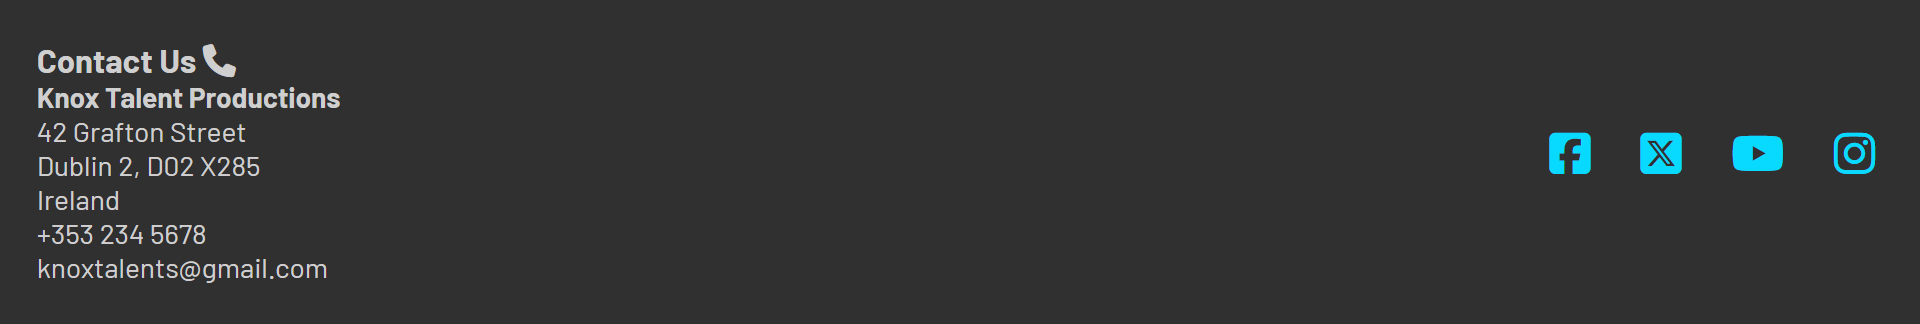
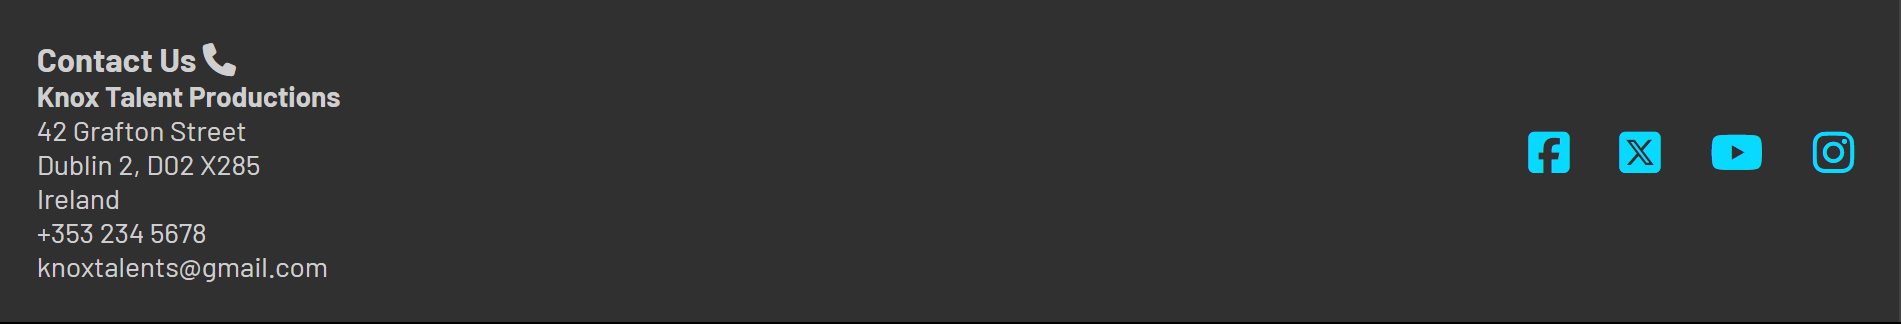
Complete Feature section with sceernshots in README.md file

diff --git a/README.md b/README.md
@@ -21,21 +21,44 @@ A fully responsive and modern style three-page website that has good accessilbil
   - For mobile users, a friendly introduction with comprehensive information about what users can expect is provided, along with a captivating image designed to grab their attention.
   - For users with larger screen sizes, the introduction and image are creatively merged.
 
-- __The 'Show us what you can do' section__
+  ![Landing Page](assets/screenshots/talent_knox_landing_page.png) ![Landing Page for mobiles](assets/screenshots/talent_knox_landing_page_mobile.png)
+
+- __The 'Show us what you can do' (Overview) section__
   - This section will allow users to view a brief overview of the options available for showcasing their talent in the competition.
+
+  ![Overview](assets/screenshots/talent_knox_overview.png)
 
 - __Competition Information section__
   - This section will provide the users information about the competition locations, dates, times, and prizes for first, second, third place, and participation.
 
-- __Footer__
+  ![Competition Details](assets/screenshots/talent_knox_competition_details.png)
 
-- __About US page__ 
-  - The second page contains a short biography of the coordinators of the Talent Knox competition. It also includes a "Contact Us" section that provides the user with the address, phone number, and email address. 
-  - Additionally, there is a snippet about the thoughts the coordinators have regarding this competition.
+- __Footer__
+  - Properly aligned and fully responsive 'Contact Us' and 'Social media link icons' sections are presented to the users in the footer that matches the color contrast of the website.
+  - The social media icons change appearances if cursors are hovered on them.
+
+  ![Footer](assets/screenshots/talent_knox_footer.png)
+
+### About US (second page)
+  - The second page contains a short biography of the coordinators of the Talent Knox competition.
+
+  ![We We Are](assets/screenshots/talent_knox_about_us.png)
+
+  - Additionally, there is a snippet about the thoughts the coordinators have regarding this competition. It also includes a "Contact Us" section that provides the user with address, phone number, and email address. 
+
+  ![Thoughts & Contact Us](assets/screenshots/talent_knox_thoughts_contact_us.png)
 
 - __Gallery section__
   - The gallery will provide the user with supporting images to visualize the competition.
   - This section is important for users as it helps them easily identify the types of events organized by the coordinators.
 
-- __Sign Up Page__
-  - This page will assist interested users in signing up for the competition. They can choose their age from an age-range selector, indicate the location, and specify the talent they will be showcasing. An optional 'write about yourself' description box is included provided they are interested.
+  ![Gallery](assets/screenshots/talent_knox_gallery.png)
+
+### Sign Up (third page)
+  - This page will assist interested users in signing up for the competition. They can choose their age from an age-range selector, indicate the location, and select the talent they will be showcasing. An optional 'write about yourself' description box is included provided they are interested. The fully functional submit and reset button, change appearances when hovered upon.
+
+  ![SignUp Form](assets/screenshots/talent_knox_sign_up_form.png)
+  ![Age Selector](assets/screenshots/talent_knox_age_selector.png)
+  ![Talent Selector](assets/screenshots/talent_knox_talent_selector.png)
+
+##
